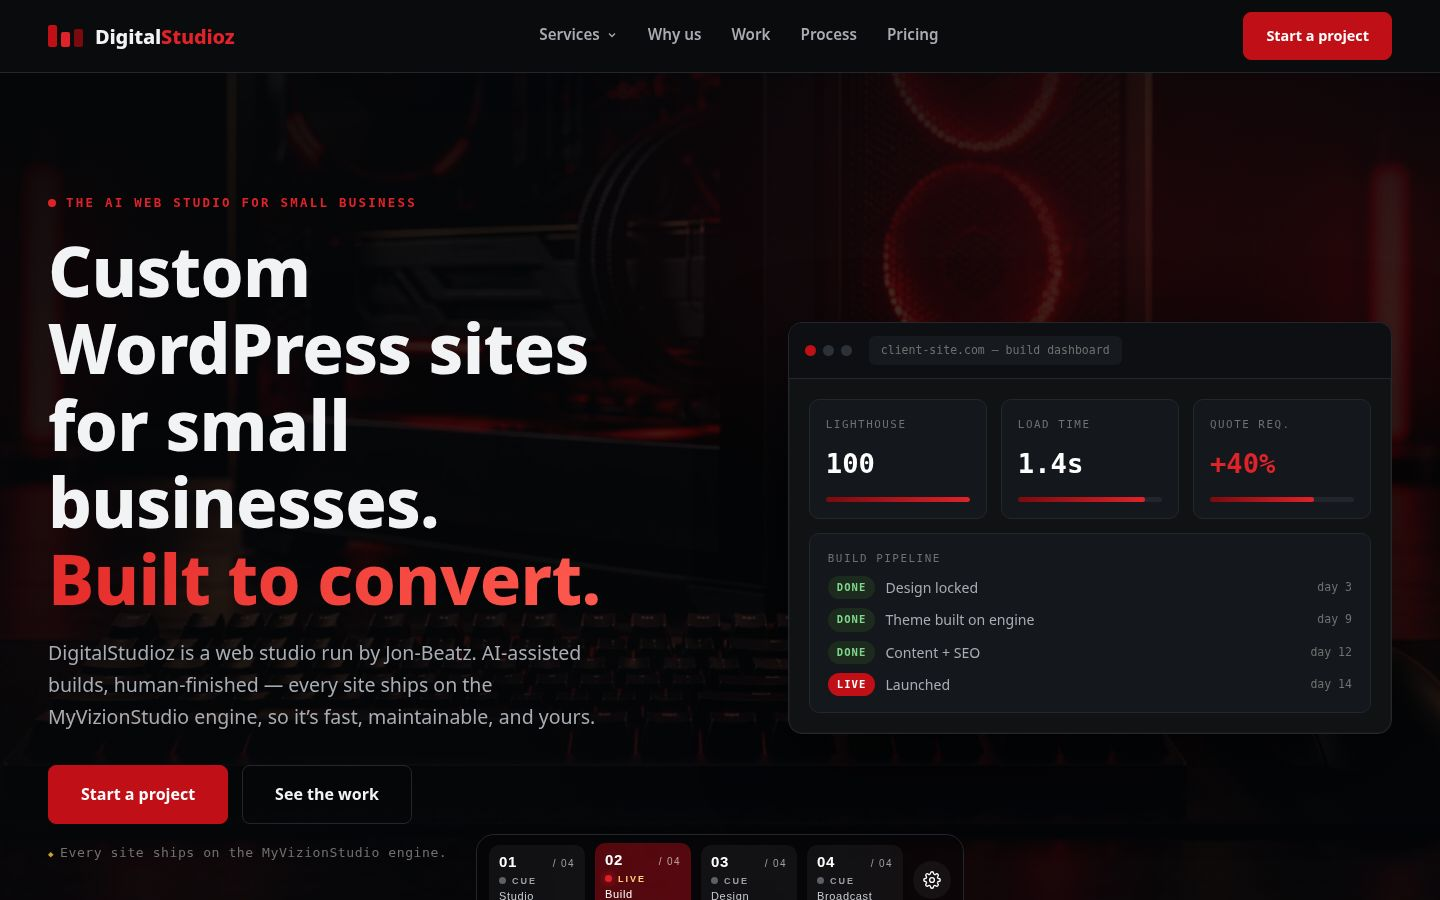
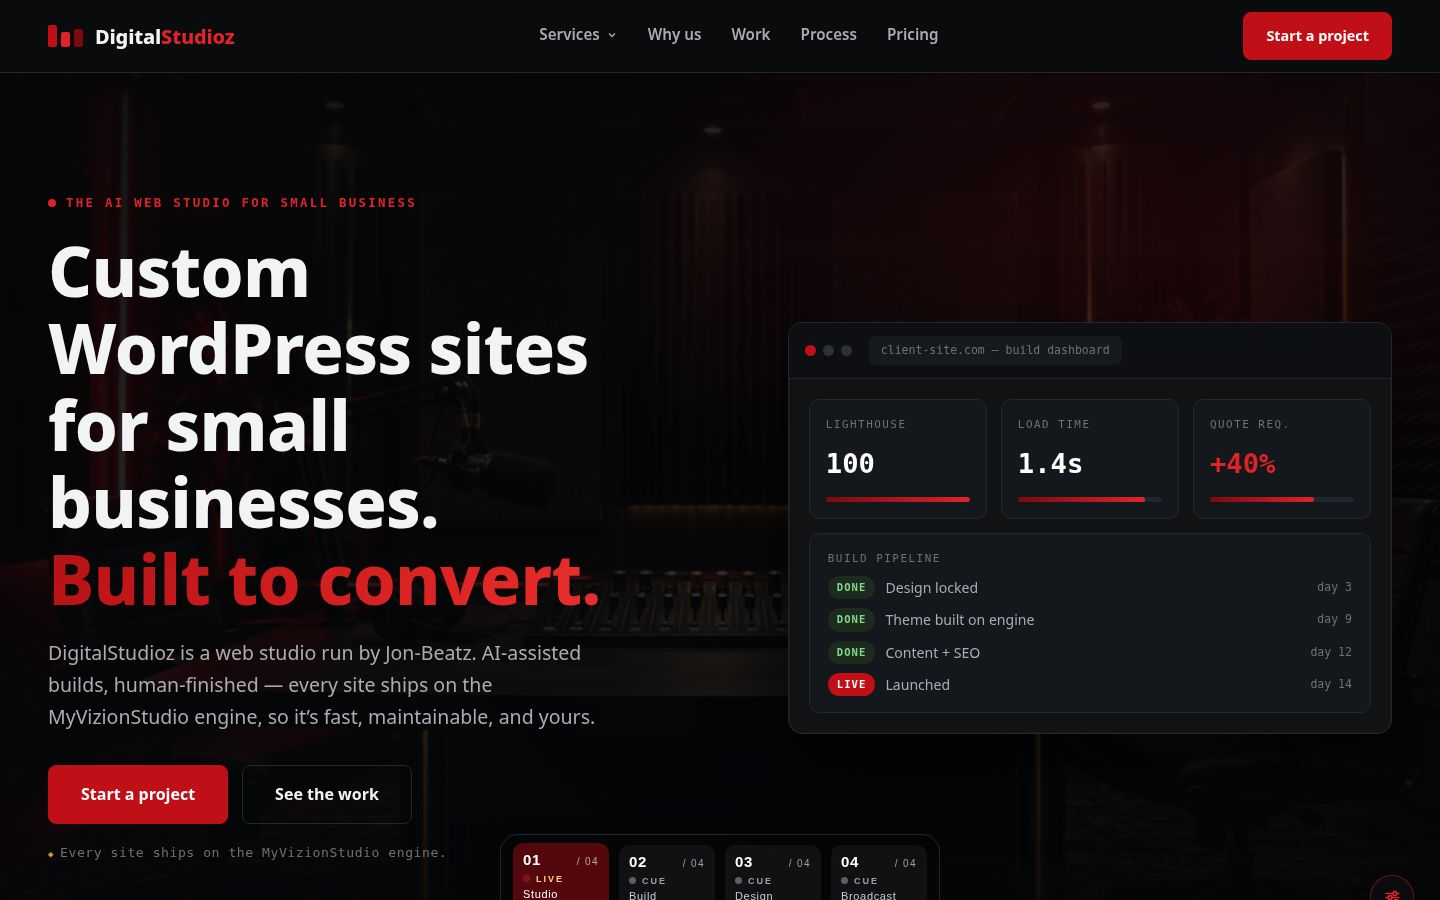
Hero settings restyle: red sliders button in corner, dark-glass panel, squared buttons, charcoal slider

diff --git a/style.css b/style.css
@@ -215,18 +215,24 @@ body.menu-open .site-header .header-cta .btn{display:none}
 .hch-progress{position:absolute;left:0;bottom:0;width:100%;height:3px;background:rgba(255,255,255,.1)}
 .hch-progress span{display:block;height:100%;width:0;background:var(--gold)}
 .hch-gear{
-  flex:0 0 auto;align-self:center;width:38px;height:38px;border-radius:50%;
-  background:rgba(255,255,255,.05);border:1px solid var(--line-soft);color:#fff;
-  cursor:pointer;display:grid;place-items:center;transition:border-color .25s,transform .3s;
+  position:absolute;right:26px;bottom:24px;z-index:5;
+  width:44px;height:44px;border-radius:50%;
+  background:rgba(13,14,16,.66);backdrop-filter:blur(12px);-webkit-backdrop-filter:blur(12px);
+  border:1px solid rgba(200,22,32,.55);color:var(--red-bright);
+  cursor:pointer;display:grid;place-items:center;
+  box-shadow:0 8px 20px rgba(0,0,0,.45);
+  transition:border-color .25s,box-shadow .25s,background .25s,color .25s;
 }
-.hch-gear:hover{border-color:var(--gold)}
-.hch-gear[aria-expanded="true"]{transform:rotate(45deg);border-color:var(--gold)}
+.hch-gear:hover{border-color:var(--red-bright);box-shadow:0 8px 24px rgba(200,22,32,.35)}
+.hch-gear[aria-expanded="true"]{background:rgba(120,12,18,.78);color:#fff;border-color:var(--red-bright);box-shadow:0 8px 24px rgba(200,22,32,.5)}
 /* hero settings panel */
 .hero-settings{
-  position:absolute;left:50%;transform:translateX(-50%);bottom:96px;z-index:4;
-  width:min(320px,calc(100vw - 32px));background:rgba(10,11,13,.94);
-  border:1px solid var(--line);border-radius:14px;padding:16px 18px;color:#fff;
-  box-shadow:0 20px 40px rgba(0,0,0,.5);
+  position:absolute;left:auto;right:26px;transform:none;bottom:78px;z-index:6;
+  width:min(320px,calc(100vw - 32px));
+  background:rgba(13,14,16,.68);
+  backdrop-filter:blur(22px) saturate(1.3);-webkit-backdrop-filter:blur(22px) saturate(1.3);
+  border:1px solid rgba(255,255,255,.12);border-radius:16px;padding:18px;color:#fff;
+  box-shadow:0 24px 48px rgba(0,0,0,.55), inset 0 1px 0 rgba(255,255,255,.07);
 }
 .hs-title{font-weight:800;font-size:13px;letter-spacing:.14em;text-transform:uppercase;color:var(--gold);margin:0 0 10px}
 .hs-group{margin-bottom:14px}
@@ -234,12 +240,18 @@ body.menu-open .site-header .header-cta .btn{display:none}
 .hs-group>p{margin:0 0 8px;font-size:11px;letter-spacing:.12em;text-transform:uppercase;color:#9aa0a8}
 .hs-pills{display:flex;gap:8px;flex-wrap:wrap}
 .hs-pills button{background:rgba(255,255,255,.06);border:1px solid var(--line-soft);color:#fff;
-  border-radius:999px;padding:6px 14px;font-size:12px;cursor:pointer;transition:border-color .2s,background .2s}
+  border-radius:10px;padding:7px 14px;font-size:12px;cursor:pointer;transition:border-color .2s,background .2s}
 .hs-pills button.is-active{background:var(--red);border-color:var(--red)}
 .hs-speed{display:flex;align-items:center;gap:10px;margin-bottom:8px}
 .hs-speed button{width:30px;height:30px;border-radius:50%;border:1px solid var(--line-soft);
   background:transparent;color:#fff;font-size:16px;cursor:pointer;line-height:1}
-.hs-speed input[type=range]{flex:1;accent-color:var(--red)}
+.hs-speed input[type=range]{-webkit-appearance:none;appearance:none;flex:1;height:6px;border-radius:3px;
+  background:#2c3138;outline:none;cursor:pointer}
+.hs-speed input[type=range]::-webkit-slider-thumb{-webkit-appearance:none;appearance:none;width:20px;height:20px;border-radius:50%;
+  background:var(--red);border:2px solid #0d0e10;box-shadow:0 0 0 1px rgba(200,22,32,.6);cursor:pointer}
+.hs-speed input[type=range]::-moz-range-track{height:6px;border-radius:3px;background:#2c3138}
+.hs-speed input[type=range]::-moz-range-thumb{width:16px;height:16px;border-radius:50%;
+  background:var(--red);border:2px solid #0d0e10;cursor:pointer}
 /* slide transition state */
 .hero-bg.is-slide .hero-bg-slide{transition:none}
 .hero-bg.is-slide .hero-bg-slide.is-active{animation:hslide-in .6s ease-out}
@@ -641,7 +653,8 @@ body.menu-open .site-header .header-cta .btn{display:none}
   .hero-channels{left:12px;right:12px;transform:none;flex-wrap:wrap;justify-content:center}
   .hch{min-width:0;flex:1 1 calc(50% - 10px);padding:7px 9px 10px}
   .hch-label{display:none}
-  .hero-settings{bottom:auto;top:70px}
+  .hch-gear{right:14px;bottom:14px}
+  .hero-settings{right:12px;left:12px;width:auto;bottom:68px}
 }
 @media (prefers-reduced-motion:reduce){
   .hch-progress span{transition:none}

diff --git a/index.html b/index.html
@@ -14,7 +14,7 @@
 <link rel="preconnect" href="https://fonts.googleapis.com">
 <link rel="preconnect" href="https://fonts.gstatic.com" crossorigin>
 <link href="https://fonts.googleapis.com/css2?family=Manrope:wght@400;500;600;700;800&family=IBM+Plex+Mono:wght@400;500;600&display=swap" rel="stylesheet">
-<link rel="stylesheet" href="style.css?v=202610101310">
+<link rel="stylesheet" href="style.css?v=202610101335">
 </head>
 <body>
 
@@ -175,9 +175,6 @@
         <span class="hch-label">Broadcast</span>
         <span class="hch-progress" aria-hidden="true"><span></span></span>
       </button>
-      <button class="hch-gear" id="heroSettingsBtn" aria-label="Backdrop settings" aria-expanded="false">
-        <svg viewBox="0 0 24 24" width="18" height="18" fill="none" stroke="currentColor" stroke-width="1.8" aria-hidden="true"><circle cx="12" cy="12" r="3.2"/><path d="M19.4 15a1.7 1.7 0 0 0 .34 1.87l.06.06a2 2 0 1 1-2.83 2.83l-.06-.06a1.7 1.7 0 0 0-1.87-.34 1.7 1.7 0 0 0-1.04 1.56V21a2 2 0 1 1-4 0v-.09a1.7 1.7 0 0 0-1.04-1.56 1.7 1.7 0 0 0-1.87.34l-.06.06a2 2 0 1 1-2.83-2.83l.06-.06A1.7 1.7 0 0 0 4.6 15a1.7 1.7 0 0 0-1.56-1.04H3a2 2 0 1 1 0-4h.09A1.7 1.7 0 0 0 4.65 8.9a1.7 1.7 0 0 0-.34-1.87l-.06-.06a2 2 0 1 1 2.83-2.83l.06.06a1.7 1.7 0 0 0 1.87.34h.01A1.7 1.7 0 0 0 10.06 3V3a2 2 0 1 1 4 0v.09c0 .68.4 1.3 1.04 1.56.6.26 1.3.13 1.87-.34l.06-.06a2 2 0 1 1 2.83 2.83l-.06.06a1.7 1.7 0 0 0-.34 1.87v.01c.26.6.88 1.04 1.56 1.04H21a2 2 0 1 1 0 4h-.09c-.68 0-1.3.4-1.51 1.04z"/></svg>
-      </button>
     </div>
     <div class="hero-settings" id="heroSettings" hidden>
       <p class="hs-title">Backdrop settings</p>
@@ -217,6 +214,9 @@
         </div>
       </div>
     </div>
+    <button class="hch-gear" id="heroSettingsBtn" aria-label="Backdrop settings" aria-expanded="false">
+      <svg viewBox="0 0 24 24" width="19" height="19" fill="none" stroke="currentColor" stroke-width="2" stroke-linecap="round" aria-hidden="true"><path d="M4 7h16"/><circle cx="15" cy="7" r="2.4" fill="#101114"/><path d="M4 12h16"/><circle cx="9" cy="12" r="2.4" fill="#101114"/><path d="M4 17h16"/><circle cx="16.5" cy="17" r="2.4" fill="#101114"/></svg>
+    </button>
   </section>
 
   <!-- ============ PROOF BAR ============ -->
@@ -539,6 +539,6 @@
   </div>
 </div>
 
-<script src="script.js?v=202610101310"></script>
+<script src="script.js?v=202610101335"></script>
 </body>
 </html>

diff --git a/README.md b/README.md
@@ -14,7 +14,7 @@
 
 **https://jonbeatz.github.io/DigitalStudioz-Site/**
 
-![DigitalStudioz agency hero — dark mode](media/hero/agency-v2-hero.jpg?v=202610101245)
+![DigitalStudioz agency hero — dark mode](media/hero/agency-v2-hero.jpg?v=202610101335)
 
 ## What's inside
 
@@ -64,7 +64,7 @@ Dark charcoal + signal red + warm gold. Big display type, hairline borders, soft
 
 ### Hero
 
-![Hero](media/hero/agency-v2-hero.jpg?v=202610101245)
+![Hero](media/hero/agency-v2-hero.jpg?v=202610101335)
 
 ### Services fan
 
@@ -76,7 +76,7 @@ Dark charcoal + signal red + warm gold. Big display type, hairline borders, soft
 
 ### Mobile
 
-![Mobile](media/hero/agency-v2-mobile.jpg?v=202610101245)
+![Mobile](media/hero/agency-v2-mobile.jpg?v=202610101335)
 
 ---
 
